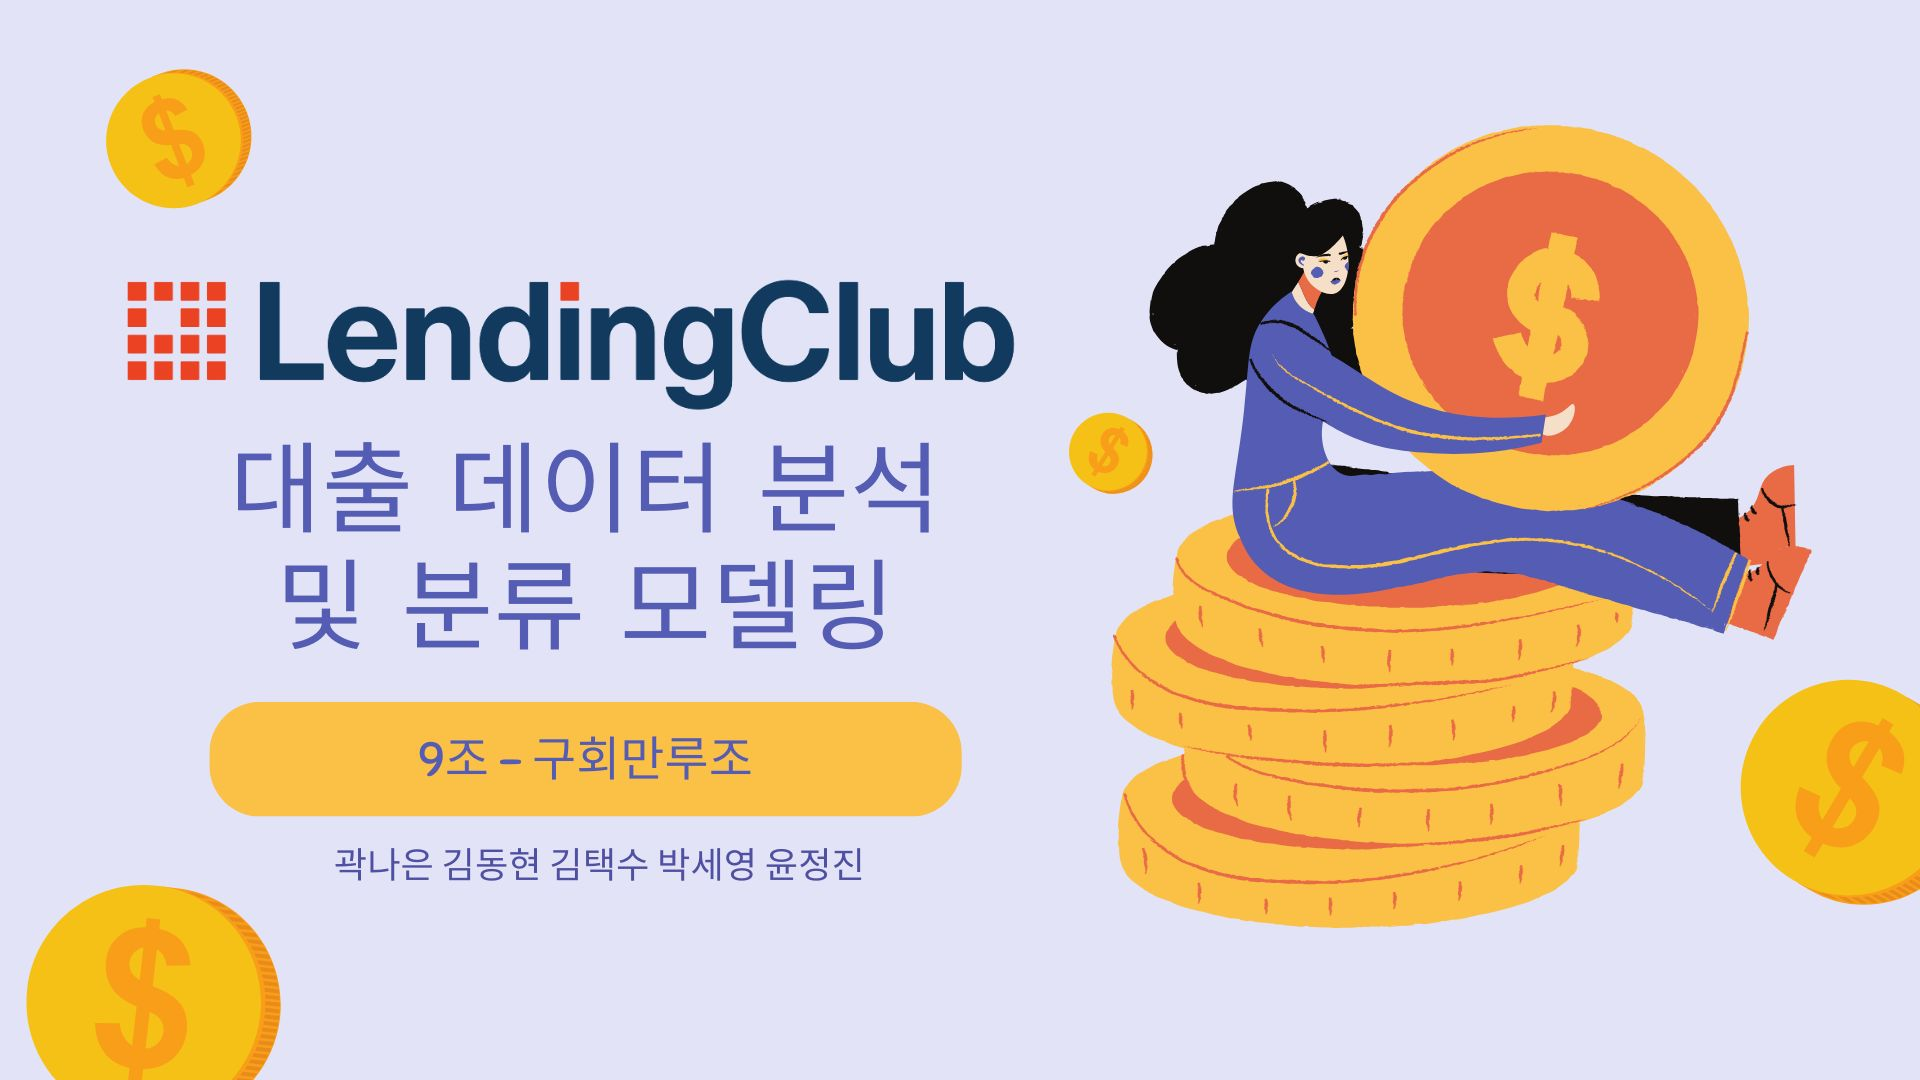
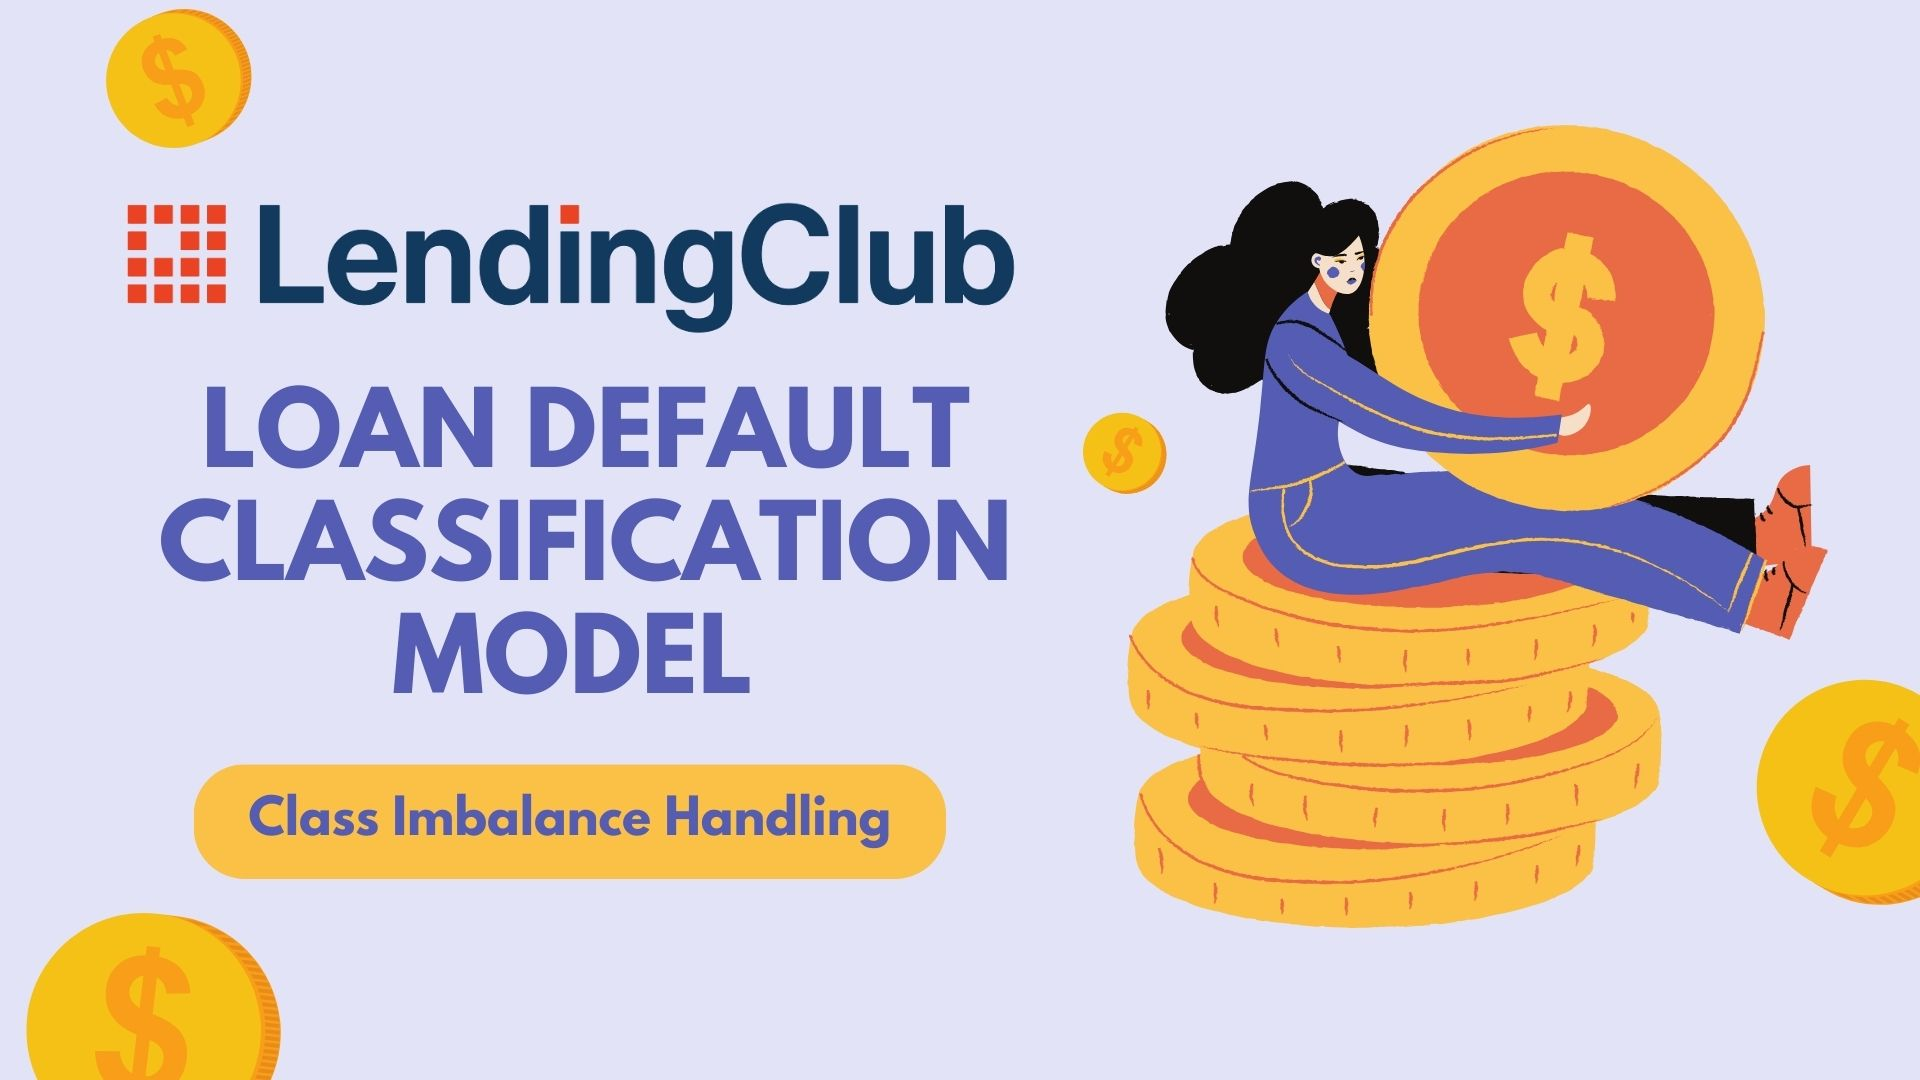
eng2

diff --git a/index.html b/index.html
@@ -197,24 +197,26 @@
                         <a href="projects/lendingclub-project.html" class="project-link">🔗 View Project Details</a>
                     </div>
                     <div class="project-hover-content">
-                        <h3>🎯 LendingClub 대출 미상환자 분류 모델</h3>
-                        <div class="core-skills">핵심 스킬: 머신러닝 분류 + 클래스 불균형 처리 + 통계 분석</div>
+                        <h3>🎯 LendingClub Loan Default Classification Model</h3>
+                        <div class="core-skills">Core Skills: Classification modeling • Class imbalance handling • Statistical analysis</div>
                         <div class="project-overview">
-                            <h4>📋 프로젝트 개요:</h4>
-                            <p>- 미국 P2P 대출 플랫폼 LendingClub 데이터로 대출 미상환자 분류 모델 개발</p>
-                            <p>- 심각한 클래스 불균형(정상:부실 = 9:1) 문제 속 모델링 개선 및 금융 리스크 관리 최적화</p>
+                            <h4>📋 Project Overview:</h4>
+                            <p>- Developed loan default classification models for US P2P lending platform LendingClub</p>
+                            <p>- Improved model performance despite severe class imbalance and optimized financial risk management</p>
                         </div>
                         <div class="technical-approach">
-                            <h4>⚙ 기술적 접근:</h4>
-                            <p>- Python(Scikit-learn, XGBoost, LightGBM), SMOTE 오버샘플링, 앙상블 모델링 적용</p>
-                            <p>- 150+ 변수 중 Feature Engineering을 통한 변수 선택, 비용 기반 평가 지표 설계, ROC Curve 분석 기반 최적 임계값 탐색</p>
+                            <h4>⚙ Technical Approach:</h4>
+                            <p>- SMOTE Oversampling: Addressed severe class imbalance (performing:default = 9:1)</p>
+                            <p>- Ensemble Modeling (XGBoost, LightGBM): Built robust loan default classification framework</p>
+                            <p>- Feature Engineering: Selected high-predictive variables from 150+ columns and created additional metrics</p>
                         </div>
                         <div class="key-achievements">
-                            <h4>📊 주요 성과:</h4>
-                            <p>- XGBoost + SMOTE 조합으로 ROC-AUC 0.89 달성(베이스라인 대비 17% 향상), 대출 미상환자 탐지율 68% 기록</p>
-                            <p>- 예상 손실 감소율 15-20% 달성으로 대출 심사 자동화 및 효율성 개선 방안 도출</p>
+                            <h4>📊 Key Achievements:</h4>
+                            <p>- Achieved ROC-AUC of 0.89 (17% improvement over baseline)</p>
+                            <p>- 68% loan default detection rate with enhanced screening recommendations</p>
+                            <p>- 15-20% projected loss reduction through improved loan approval processes</p>
                         </div>
-                        <a href="projects/lendingclub-project.html" class="view-case-study">🔗 프로젝트 상세 정보 보기</a>
+                        <a href="projects/lendingclub-project.html" class="view-case-study">🔗 View Project Details</a>
                     </div>
                 </div>
                 <div class="project-card">
@@ -231,23 +233,25 @@
                         <a href="projects/hm-project.html" class="project-link">🔗 View Project Details</a>
                     </div>
                     <div class="project-hover-content">
-                        <h3>🎯 H&M 고객 충성도 분석</h3>
-                        <div class="core-skills">핵심 스킬: 고객 세분화 + 충성 고객 정의 + EDA 선호도 분석</div>
+                        <h3>🎯 H&M Customer Loyalty Data Analysis</h3>
+                        <div class="core-skills">Core Skills: Customer segmentation • Loyalty definition • EDA preference analysis</div>
                         <div class="project-overview">
-                            <h4>📋 프로젝트 개요:</h4>
-                            <p>- H&M 매출 데이터를 활용하여 RFM 기반 충성 고객층 정의 및 일반 고객과의 제품 선호도 차이 분석</p>
+                            <h4>📋 Project Overview:</h4>
+                            <p>- Analyzed H&M sales data using RFM-based loyal customer definition and examined product preference differences between loyal and general customers</p>
                         </div>
                         <div class="technical-approach">
-                            <h4>⚙ 기술적 접근:</h4>
-                            <p>- Matplotlib + Seaborn 시각화, 고객 충성도 지표 정의, 고객 월별 누적 이탈률 분석, 카이제곱 검정 및 T-test를 통한 통계적 유의성 검정</p>
+                            <h4>⚙ Technical Approach:</h4>
+                            <p>- RFM Analysis: Defined customer loyalty metrics and implemented segmentation</p>
+                            <p>- Monthly Cumulative Churn Analysis: Identified customer lifecycle and retention patterns</p>
+                            <p>- Chi-square and T-tests: Statistically validated preference differences between loyal and general customers</p>
                         </div>
                         <div class="key-achievements">
-                            <h4>📊 주요 성과:</h4>
-                            <p>- 전체 고객의 12.3%인 충성 고객이 전체 매출의 34% 기여함을 발견</p>
-                            <p>- 충성 고객의 평균 구매 금액이 일반 고객 대비 2.8배 높고, 프리미엄 카테고리 선호도가 명확히 구분됨을 확인</p>
-                            <p>- 고가치 고객 타겟팅 전략 및 CLV 기반 마케팅 예산 배분 최적화 방안 제시</p>
+                            <h4>📊 Key Achievements:</h4>
+                            <p>- Discovered that 12.3% loyal customers contribute 34% of total revenue</p>
+                            <p>- Found loyal customers spend 2.8x more on average compared to general customers</p>
+                            <p>- Proposed high-value customer targeting strategies and CLV-based marketing budget optimization</p>
                         </div>
-                        <a href="projects/hm-project.html" class="view-case-study">🔗 프로젝트 상세 정보 보기</a>
+                        <a href="projects/hm-project.html" class="view-case-study">🔗 View Project Details</a>
                     </div>
                 </div>
             </div>

diff --git a/projects/lendingclub-project.html b/projects/lendingclub-project.html
@@ -31,7 +31,7 @@
     <section class="project-detail">
         <div class="container">
             <div class="back-link">
-                <a href="../index.html#projects"><i class="fas fa-arrow-left"></i> 프로젝트 목록으로 돌아가기</a>
+                <a href="../index.html#projects"><i class="fas fa-arrow-left"></i> Return to the Project List</a>
             </div>
             
             <div class="project-hero">
@@ -39,44 +39,56 @@
             </div>
 
             <div class="project-content">
-                <h2>🎯 LendingClub 대출 미상환자 분류 모델</h2>
+                <h2>🎯 LendingClub Loan Default Classification Model</h2>
+                <div class="project-meta">
+                    <p><strong>Project Duration:</strong> 2025.04 - 2025.04 (3 weeks)</p>
+                    <p><strong>👥 Team Size:</strong> 5 members</p>
+                </div>
                 <div class="core-skills">
-                    <strong>핵심 스킬:</strong> 머신러닝 분류 + 클래스 불균형 처리 + 통계 분석
+                    <strong>📌 Core Skills:</strong> Classification Modeling • Class Imbalance Handling • Statistical Analysis
                 </div>
 
                 <div class="project-section">
-                    <h3>📋 프로젝트 개요:</h3>
+                    <h3>📋 Project Overview:</h3>
+                    <p>Developed loan default classification models for US P2P lending platform LendingClub, improving model performance despite severe class imbalance and optimizing financial risk management.</p>
+                </div>
+
+                <div class="project-section">
+                    <h3>⚙ Technical Approach:</h3>
                     <ul>
-                        <li>미국 P2P 대출 플랫폼 LendingClub 데이터로 대출 미상환자 분류 모델 개발</li>
-                        <li>심각한 클래스 불균형(정상:부실 = 9:1) 문제 속 모델링 개선 및 금융 리스크 관리 최적화</li>
+                        <li>SMOTE Oversampling: Addressed severe class imbalance (performing:default = 9:1)</li>
+                        <li>Ensemble Modeling (XGBoost, LightGBM): Built robust loan default classification framework</li>
+                        <li>Feature Engineering: Selected high-predictive variables from 150+ columns and created additional metrics</li>
                     </ul>
                 </div>
 
                 <div class="project-section">
-                    <h3>⚙ 기술적 접근:</h3>
+                    <h3>📊 Key Achievements:</h3>
                     <ul>
-                        <li>Python(Scikit-learn, XGBoost, LightGBM), SMOTE 오버샘플링, 앙상블 모델링 적용</li>
-                        <li>150+ 변수 중 Feature Engineering을 통한 변수 선택, 비용 기반 평가 지표 설계, ROC Curve 분석 기반 최적 임계값 탐색</li>
+                        <li>Achieved ROC-AUC of 0.89 (17% improvement over baseline)</li>
+                        <li>68% loan default detection rate with enhanced screening recommendations</li>
+                        <li>15-20% projected loss reduction through improved loan approval processes</li>
                     </ul>
                 </div>
 
                 <div class="project-section">
-                    <h3>📊 주요 성과:</h3>
+                    <h3>🎯 Skills Acquired:</h3>
                     <ul>
-                        <li>XGBoost + SMOTE 조합으로 ROC-AUC 0.89 달성(베이스라인 대비 17% 향상), 대출 미상환자 탐지율 68% 기록</li>
-                        <li>예상 손실 감소율 15-20% 달성으로 대출 심사 자동화 및 효율성 개선 방안 도출</li>
+                        <li><strong>Machine Learning Performance Optimization:</strong> Feature engineering and hyperparameter tuning expertise</li>
+                        <li><strong>Financial Risk Modeling:</strong> Cost-based evaluation for practical model deployment</li>
+                        <li><strong>High-dimensional Data Processing:</strong> Core feature selection and optimization capabilities</li>
                     </ul>
                 </div>
 
                 <div class="project-section">
-                    <h3>프로젝트 PPT:</h3>
+                    <h3>Project Slides:</h3>
                     <div class="pdf-viewer">
                         <iframe src="https://drive.google.com/file/d/1md8h7q4TnbEyJrEjDLlThVF8Df1afmMU/preview" width="100%" height="600" frameborder="0" allowfullscreen></iframe>
                     </div>
                 </div>
 
                 <div class="project-section">
-                    <h3>프로젝트 발표 영상:</h3>
+                    <h3>Presentation Video:</h3>
                     <div class="video-container">
                         <iframe width="560" height="315" src="https://www.youtube.com/embed/v1aokWxDX9k?si=lPX3MrpIvh5nNiBy" title="YouTube video player" frameborder="0" allow="accelerometer; autoplay; clipboard-write; encrypted-media; gyroscope; picture-in-picture; web-share" referrerpolicy="strict-origin-when-cross-origin" allowfullscreen></iframe>
                     </div>
@@ -88,7 +100,7 @@
     <!-- Bottom Back Link -->
     <div class="container">
         <div class="back-link" style="margin: 2rem auto; max-width: 800px;">
-            <a href="../index.html#projects"><i class="fas fa-arrow-left"></i> 프로젝트 목록으로 돌아가기</a>
+            <a href="../index.html#projects"><i class="fas fa-arrow-left"></i> Return to the Project List</a>
         </div>
     </div>
 

diff --git a/projects/hm-project.html b/projects/hm-project.html
@@ -31,7 +31,7 @@
     <section class="project-detail">
         <div class="container">
             <div class="back-link">
-                <a href="../index.html#projects"><i class="fas fa-arrow-left"></i> Return to the Project Porftolio</a>
+                <a href="../index.html#projects"><i class="fas fa-arrow-left"></i> Return to the Project List</a>
             </div>
             
             <div class="project-hero">
@@ -39,43 +39,56 @@
             </div>
 
             <div class="project-content">
-                <h2>🎯 H&M 고객 충성도 분석</h2>
+                <h2>🎯 H&M Customer Loyalty Data Analysis</h2>
+                <div class="project-meta">
+                    <p><strong>Project Duration:</strong> 2025.03 - 2025.03 (2 weeks)</p>
+                    <p><strong>👥 Team Size:</strong> 5 members</p>
+                </div>
                 <div class="core-skills">
-                    <strong>핵심 스킬:</strong> 고객 세분화 + 충성 고객 정의 + EDA 선호도 분석
+                    <strong>📌 Core Skills:</strong> Customer Segmentation • Customer Loyalty Analytics • EDA Preference Analysis
                 </div>
 
                 <div class="project-section">
-                    <h3>📋 프로젝트 개요:</h3>
+                    <h3>📋 Project Overview:</h3>
+                    <p>Analyzed H&M sales data using RFM-based loyal customer definition and examined product preference differences between loyal and general customers.</p>
+                </div>
+
+                <div class="project-section">
+                    <h3>⚙ Technical Approach:</h3>
                     <ul>
-                        <li>H&M 매출 데이터를 활용하여 RFM 기반 충성 고객층 정의 및 일반 고객과의 제품 선호도 차이 분석</li>
+                        <li>RFM Analysis: Defined customer loyalty metrics and implemented segmentation</li>
+                        <li>Monthly Cumulative Churn Analysis: Identified customer lifecycle and retention patterns</li>
+                        <li>Chi-square and T-tests: Statistically validated preference differences between loyal and general customers</li>
                     </ul>
                 </div>
 
                 <div class="project-section">
-                    <h3>⚙ 기술적 접근:</h3>
+                    <h3>📊 Key Achievements:</h3>
                     <ul>
-                        <li>Matplotlib + Seaborn 시각화, 고객 충성도 지표 정의, 고객 월별 누적 이탈률 분석, 카이제곱 검정 및 T-test를 통한 통계적 유의성 검정</li>
+                        <li>Discovered that 12.3% loyal customers contribute 34% of total revenue</li>
+                        <li>Found loyal customers spend 2.8x more on average compared to general customers</li>
+                        <li>Proposed high-value customer targeting strategies and CLV-based marketing budget optimization</li>
                     </ul>
                 </div>
 
                 <div class="project-section">
-                    <h3>📊 주요 성과:</h3>
+                    <h3>🎯 Skills Acquired:</h3>
                     <ul>
-                        <li>전체 고객의 12.3%인 충성 고객이 전체 매출의 34% 기여함을 발견</li>
-                        <li>충성 고객의 평균 구매 금액이 일반 고객 대비 2.8배 높고, 프리미엄 카테고리 선호도가 명확히 구분됨을 확인</li>
-                        <li>고가치 고객 타겟팅 전략 및 CLV 기반 마케팅 예산 배분 최적화 방안 제시</li>
+                        <li><strong>Customer Segmentation:</strong> Data-driven customer classification using RFM modeling</li>
+                        <li><strong>Statistical Validation:</strong> Systematic analysis process from hypothesis setting to testing</li>
+                        <li><strong>Business Strategy:</strong> Customer value-based marketing strategy development capabilities</li>
                     </ul>
                 </div>
 
                 <div class="project-section">
-                    <h3>프로젝트 PPT:</h3>
+                    <h3>Project Slides:</h3>
                     <div class="pdf-viewer pdf-viewer-slide">
                         <iframe src="https://drive.google.com/file/d/1GQ_7CUQkVNmw3Y2dcH1GHOlFJM_pcpcp/preview" width="100%" height="600" frameborder="0" allowfullscreen></iframe>
                     </div>
                 </div>
 
                 <div class="project-section">
-                    <h3>프로젝트 발표 영상:</h3>
+                    <h3>Presentation Video:</h3>
                     <div class="video-container">
                         <iframe width="560" height="315" src="https://www.youtube.com/embed/MG_8FS_Xflk?si=K2ro57dn6SIb50VS" title="YouTube video player" frameborder="0" allow="accelerometer; autoplay; clipboard-write; encrypted-media; gyroscope; picture-in-picture; web-share" referrerpolicy="strict-origin-when-cross-origin" allowfullscreen></iframe>
                     </div>
@@ -87,7 +100,7 @@
     <!-- Bottom Back Link -->
     <div class="container">
         <div class="back-link" style="margin: 2rem auto; max-width: 800px;">
-            <a href="../index.html#projects"><i class="fas fa-arrow-left"></i> Return to the Project Porftolio</a>
+            <a href="../index.html#projects"><i class="fas fa-arrow-left"></i> Return to the Project List</a>
         </div>
     </div>
 

diff --git a/projects/olist-project.html b/projects/olist-project.html
@@ -31,7 +31,7 @@
     <section class="project-detail">
         <div class="container">
             <div class="back-link">
-                <a href="../index.html#projects" onclick="return maintainLanguageState(this, event)"><i class="fas fa-arrow-left"></i> Return to the Project Porftolio</a>
+                <a href="../index.html#projects" onclick="return maintainLanguageState(this, event)"><i class="fas fa-arrow-left"></i> Return to the Project List</a>
             </div>
             
             <div class="project-hero">
@@ -45,7 +45,7 @@
                     <p><strong>👥 Team Size:</strong> 5 members</p>
                 </div>
                 <div class="core-skills">
-                    <strong>📌 Core Skills:</strong> Tableau dashboard • Time series analysis • Marketing Funnel analysis
+                    <strong>📌 Core Skills:</strong> Tableau Dashboard • Time Series Analysis • Marketing Funnel Analysis
                 </div>
 
                 <div class="project-section">
@@ -108,7 +108,7 @@
     <!-- Bottom Back Link -->
     <div class="container">
         <div class="back-link" style="margin: 2rem auto; max-width: 800px;">
-            <a href="../index.html#projects" onclick="return maintainLanguageState(this, event)"><i class="fas fa-arrow-left"></i> Return to the Project Porftolio</a>
+            <a href="../index.html#projects" onclick="return maintainLanguageState(this, event)"><i class="fas fa-arrow-left"></i> Return to the Project List</a>
         </div>
     </div>
 

diff --git a/projects/klit-project.html b/projects/klit-project.html
@@ -32,7 +32,7 @@
     <section class="project-detail">
         <div class="container">
             <div class="back-link">
-                <a href="../index.html#projects" onclick="return maintainLanguageState(this, event)"><i class="fas fa-arrow-left"></i> 프로젝트 목록으로 돌아가기</a>
+                <a href="../index.html#projects" onclick="return maintainLanguageState(this, event)"><i class="fas fa-arrow-left"></i> Return to the Project List</a>
             </div>
             
             <div class="project-hero">
@@ -122,7 +122,7 @@
     <!-- Bottom Back Link -->
     <div class="container">
         <div class="back-link" style="margin: 2rem auto; max-width: 800px;">
-            <a href="../index.html#projects" onclick="return maintainLanguageState(this, event)"><i class="fas fa-arrow-left"></i> 프로젝트 목록으로 돌아가기</a>
+            <a href="../index.html#projects" onclick="return maintainLanguageState(this, event)"><i class="fas fa-arrow-left"></i> Return to the Project List</a>
         </div>
     </div>
 
